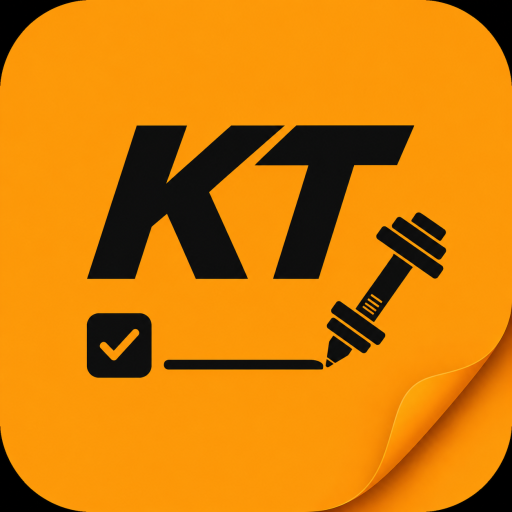
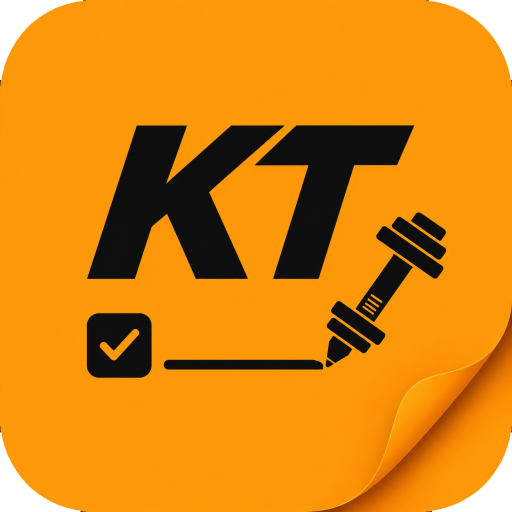
KT-13: [FEAT]:Corrige os assets e descrição do app e pwa

diff --git a/public/sw.js b/public/sw.js
@@ -1,4 +1,4 @@
-const CACHE_NAME = "laravel-pwa-1785587201";
+const CACHE_NAME = "laravel-pwa-1785982576";
 const OFFLINE_URL = "/offline.html";
 
 const FILES_TO_CACHE = ["/", OFFLINE_URL];

diff --git a/resources/views/welcome.blade.php b/resources/views/welcome.blade.php
@@ -5,9 +5,11 @@
     <meta name="viewport" content="width=device-width, initial-scale=1.0, maximum-scale=1.0, user-scalable=no, viewport-fit=cover">
     <meta name="apple-mobile-web-app-status-bar-style" content="black-translucent">
     <meta name="theme-color" content="#000000">
-    <title>Keep Training - Welcome</title>
+    <title>Keep Training</title>
 
-    @pwaHead
+    <link rel="icon" href="/icon-192x192.png" type="image/png">
+
+    @pwaHead('icon-192x192.png', '#000000')
 
     @vite(['resources/css/app.css', 'resources/js/app.js'])
 

diff --git a/resources/views/components/⚡login.blade.php b/resources/views/components/⚡login.blade.php
@@ -47,14 +47,13 @@ new class extends Component
 
         $this->redirect($url);
     }
-
 };
 ?>
 
 <div class="bg-surface w-full max-w-[360px] border-[3px] border-primary block-shadow-primary p-8">
 
     <div class="flex justify-center mb-6 cursor-pointer" onclick="toggleView('welcome')" title="Voltar">
-        <img src="/icon-kt.png" alt="Keep Training Logo" class="w-24 h-24 object-contain block-shadow-primary">
+        <img src="/icon-kt.png" alt="Keep Training Logo" class="w-24 h-24 object-contain ">
     </div>
 
 
